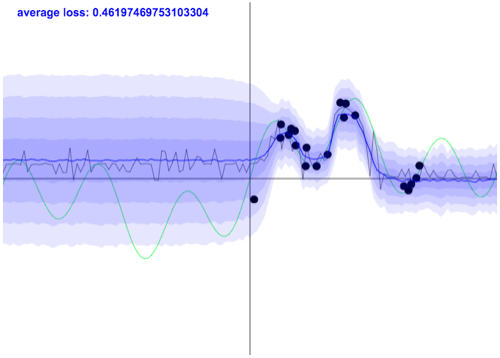
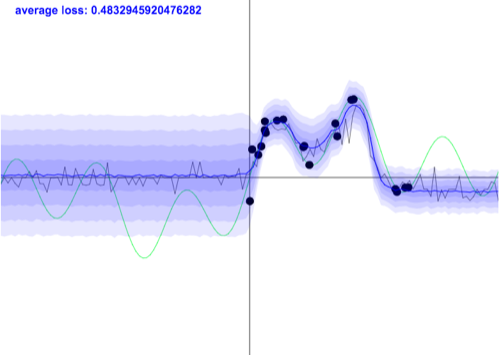
updated demos

diff --git a/convnetjs/regression_uncertainty.js b/convnetjs/regression_uncertainty.js
@@ -1,7 +1,7 @@
 // Tunable parameters:
 var N = 24;
-var p = 0.05;
-var l2 = 0.005; // p_l(w) = N(w; 0, l^{−2}I); l^{−2} = 200
+var p = 0.005;
+var l2 = 10; // p_l(w) = N(w; 0, l^{−2}I)
 
 var l2_decay = l2 * (1 - p) * tau_inv / (2 * N);
 console.log('l2_decay = ' + l2_decay);
@@ -17,9 +17,9 @@ var layer_defs, net, trainer, sum_y, sum_y_sq;
 layer_defs = [];
 layer_defs.push({type:'input', out_sx:1, out_sy:1, out_depth:1});
 // layer_defs.push({type:'dropout', drop_prob:p}); // this is not a good idea when we have a one dimensional input!
-layer_defs.push({type:'fc', num_neurons:20, activation:'tanh'}); // num_neurons = num of outputs
+layer_defs.push({type:'fc', num_neurons:20, activation:'relu'}); // num_neurons = num of outputs
 layer_defs.push({type:'dropout', drop_prob:p});
-layer_defs.push({type:'fc', num_neurons:20, activation:'tanh'});
+layer_defs.push({type:'fc', num_neurons:20, activation:'sigmoid'});
 layer_defs.push({type:'dropout', drop_prob:p});
 layer_defs.push({type:'regression', num_neurons:1}); // this layer always adds one more fc layer
 
@@ -28,7 +28,7 @@ function reload_reg() {
   net = new convnetjs.Net();
   net.makeLayers(layer_defs);
 
-  trainer = new convnetjs.SGDTrainer(net, {learning_rate:0.01, momentum:0.0, batch_size:12, l2_decay:l2_decay});
+  trainer = new convnetjs.SGDTrainer(net, {learning_rate:0.001, momentum:0.0, batch_size:12, l2_decay:l2_decay});
 
   sum_y = Array();
   for(var x=0.0; x<=WIDTH; x+= density)
@@ -51,19 +51,19 @@ function regen_data() {
   labels = [];
   for(var i=0;i<N-4;i++) {
     // var x = Math.random()*10-5;
-    var x = 1.*i/(N-3)*10-5; // for reproducibility
+    var x = 1.*i/(N-5)*10-5; // for reproducibility
     var y = x*Math.sin(x);
     data.push([x]);
     labels.push([y]);
   }
-  data.push([7.5]);
-  labels.push([7]);
-  data.push([8]);
+  data.push([7]);
   labels.push([-7]);
-  data.push([10.5]);
+  data.push([8.5]);
   labels.push([7]);
-  data.push([11]);
+  data.push([10]);
   labels.push([-7]);
+  data.push([11.5]);
+  labels.push([7]);
 }
 
 function myinit(){

diff --git a/convnetjs/regression_uncertainty_heteroscedastic.js b/convnetjs/regression_uncertainty_heteroscedastic.js
@@ -1,7 +1,7 @@
 // Tunable parameters:
 var N = 24;
 var p = 0.05;
-var l2 = 0.005; // p_l(w) = N(w; 0, l^{−2}I); l^{−2} = 200
+var l2 = 0.1; // p_l(w) = N(w; 0, l^{−2}I); l^{−2} = 10
 
 var l2_decay = l2 * (1 - p) / (2 * N);
 console.log('l2_decay = ' + l2_decay);
@@ -17,9 +17,9 @@ var layer_defs, net, trainer, sum_y, sum_y_sq, sum_sigma2;
 layer_defs = [];
 layer_defs.push({type:'input', out_sx:1, out_sy:1, out_depth:1});
 // layer_defs.push({type:'dropout', drop_prob:p}); // this is not a good idea when we have a one dimensional input!
-layer_defs.push({type:'fc', num_neurons:20, activation:'tanh'}); // num_neurons = num of outputs
+layer_defs.push({type:'fc', num_neurons:20, activation:'relu'}); // num_neurons = num of outputs
 layer_defs.push({type:'dropout', drop_prob:p});
-layer_defs.push({type:'fc', num_neurons:20, activation:'tanh'});
+layer_defs.push({type:'fc', num_neurons:20, activation:'sigmoid'});
 layer_defs.push({type:'dropout', drop_prob:p});
 layer_defs.push({type:'heteroscedastic_regression', num_neurons:2}); // this layer always adds one more fc layer
 
@@ -57,19 +57,19 @@ function regen_data() {
   labels = [];
   for(var i=0;i<N-4;i++) {
     // var x = Math.random()*10-5;
-    var x = 1.*i/(N-3)*10-5; // for reproducibility
+    var x = 1.*i/(N-5)*10-5; // for reproducibility
     var y = x*Math.sin(x);
     data.push([x]);
     labels.push([y]);
   }
-  data.push([7.5]);
-  labels.push([7]);
-  data.push([8]);
+  data.push([7]);
   labels.push([-7]);
-  data.push([10.5]);
+  data.push([8.5]);
   labels.push([7]);
-  data.push([11]);
+  data.push([10]);
   labels.push([-7]);
+  data.push([11.5]);
+  labels.push([7]);
 }
 
 function myinit(){

diff --git a/demos/homoscedastic_dropout_reg_DM_relu.html b/demos/homoscedastic_dropout_reg_DM_relu.html
@@ -11,10 +11,10 @@
 		<script src="../convnetjs/npgmain.js"></script>
 		<script language="javascript">
 			// Tunable parameters:
-			var tau_inv = 0.1; // = sigma^2
+			var tau_inv = 0.01; // = sigma^2
 			var N = 20;
 			var p = 0.05;
-			var l2 = 0.0000005; // p_l(w) = N(w; 0, l^{−2}I); smaller l2 = higher frequencies a-priori
+			var l2 = 0.00000000005; // p_l(w) = N(w; 0, l^{−2}I); smaller l2 = higher frequencies a-priori
 			var alpha = 4;
 			var beta = 13;
 

diff --git a/demos/homoscedastic_dropout_reg_DM_tanh.html b/demos/homoscedastic_dropout_reg_DM_tanh.html
@@ -11,10 +11,10 @@
 		<script src="../convnetjs/npgmain.js"></script>
 		<script language="javascript">
 			// Tunable parameters:
-			var tau_inv = 0.1; // = sigma^2
+			var tau_inv = 0.01; // = sigma^2
 			var N = 20;
 			var p = 0.05;
-			var l2 = 0.0000005; // p_l(w) = N(w; 0, l^{−2}I); smaller l2 = higher frequencies a-priori
+			var l2 = 0.00000000005; // p_l(w) = N(w; 0, l^{−2}I); smaller l2 = higher frequencies a-priori
 			var alpha = 4;
 			var beta = 13;
 

diff --git a/convnetjs/regression_uncertainty_heteroscedastic_DM.js b/convnetjs/regression_uncertainty_heteroscedastic_DM.js
@@ -1,7 +1,7 @@
 // Tunable parameters:
 var N = 20;
 var p = 0.05;
-var l2 = 0.000005; // p_l(w) = N(w; 0, l^{−2}I); smaller l2 = higher frequencies a-priori
+var l2 = 0.00000000005; // p_l(w) = N(w; 0, l^{−2}I); smaller l2 = higher frequencies a-priori
 var alpha = 4;
 var beta = 13;
 

diff --git a/demos/homoscedastic_GP_reg.m b/demos/homoscedastic_GP_reg.m
@@ -1,9 +1,9 @@
 clear all, close all
 
-x=rand(20,1)*10-5;
+x=linspace(-5, 5, 20)';
 y=x.*sin(x);
-x=[x;7.5;8;10.5;11];
-y=[y;7;-7;7;-7];
+x=[x;7;8.5;10;11.5];
+y=[y;-7;7;-7;7];
 
 plot(x, y, '+');
 
@@ -16,7 +16,7 @@ likfunc = @likGauss; hyp.lik = log(sn);
  
 nlml = gp(hyp, @infExact, meanfunc, covfunc, likfunc, x, y)
 
-z = linspace(-6, 11, 101)';
+z = linspace(-6, 12, 101)';
 [m s2] = gp(hyp, @infExact, meanfunc, covfunc, likfunc, x, y, z);
 
 f = [m+2*sqrt(s2); flipdim(m-2*sqrt(s2),1)]; 
